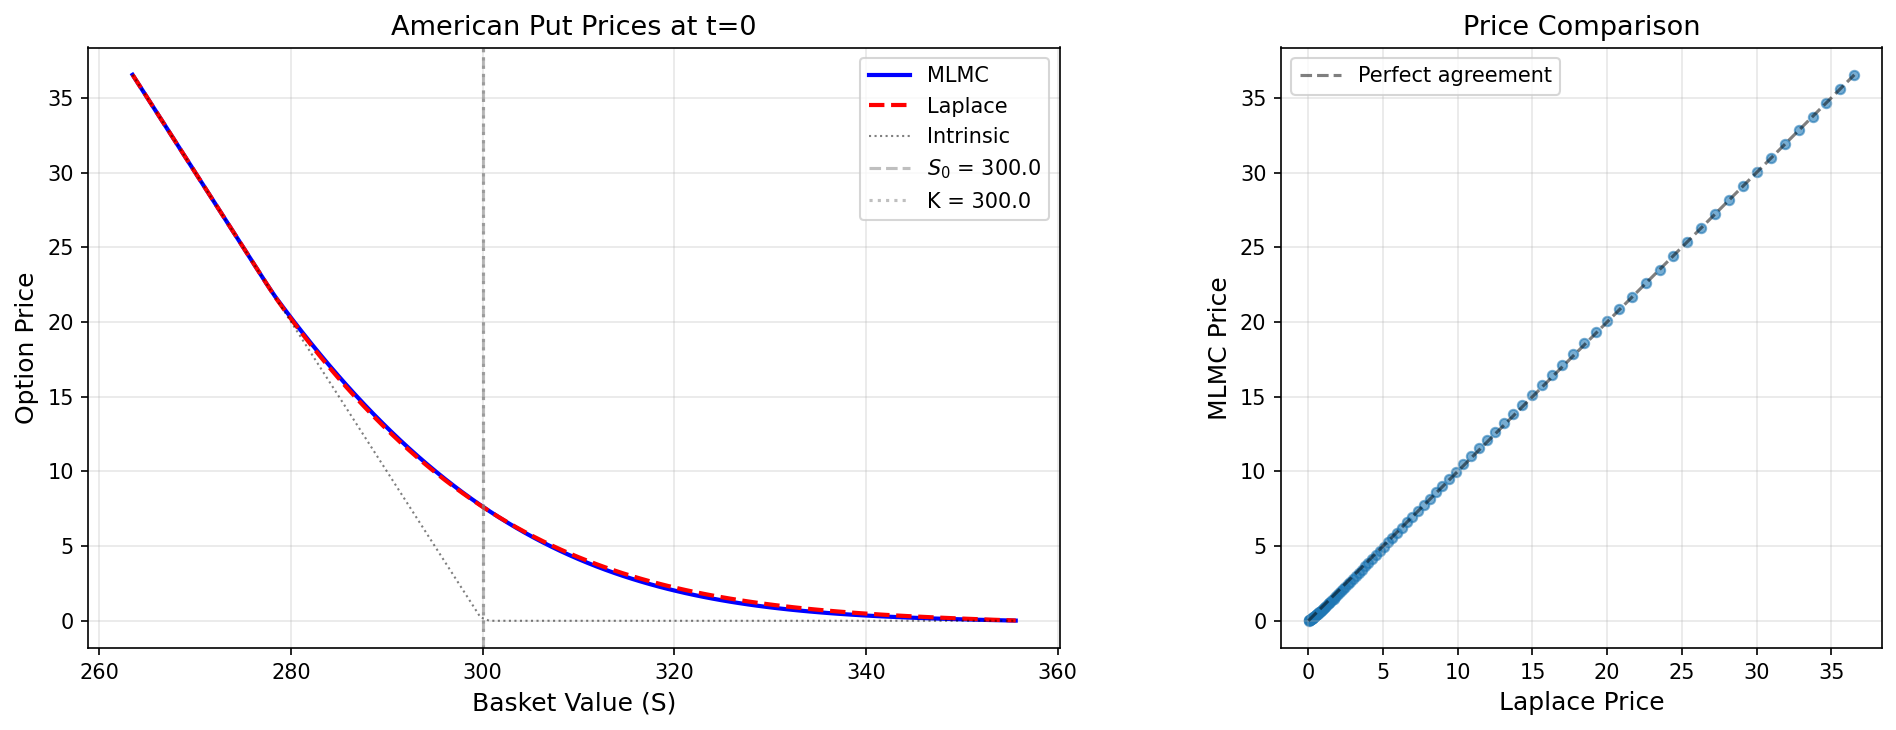
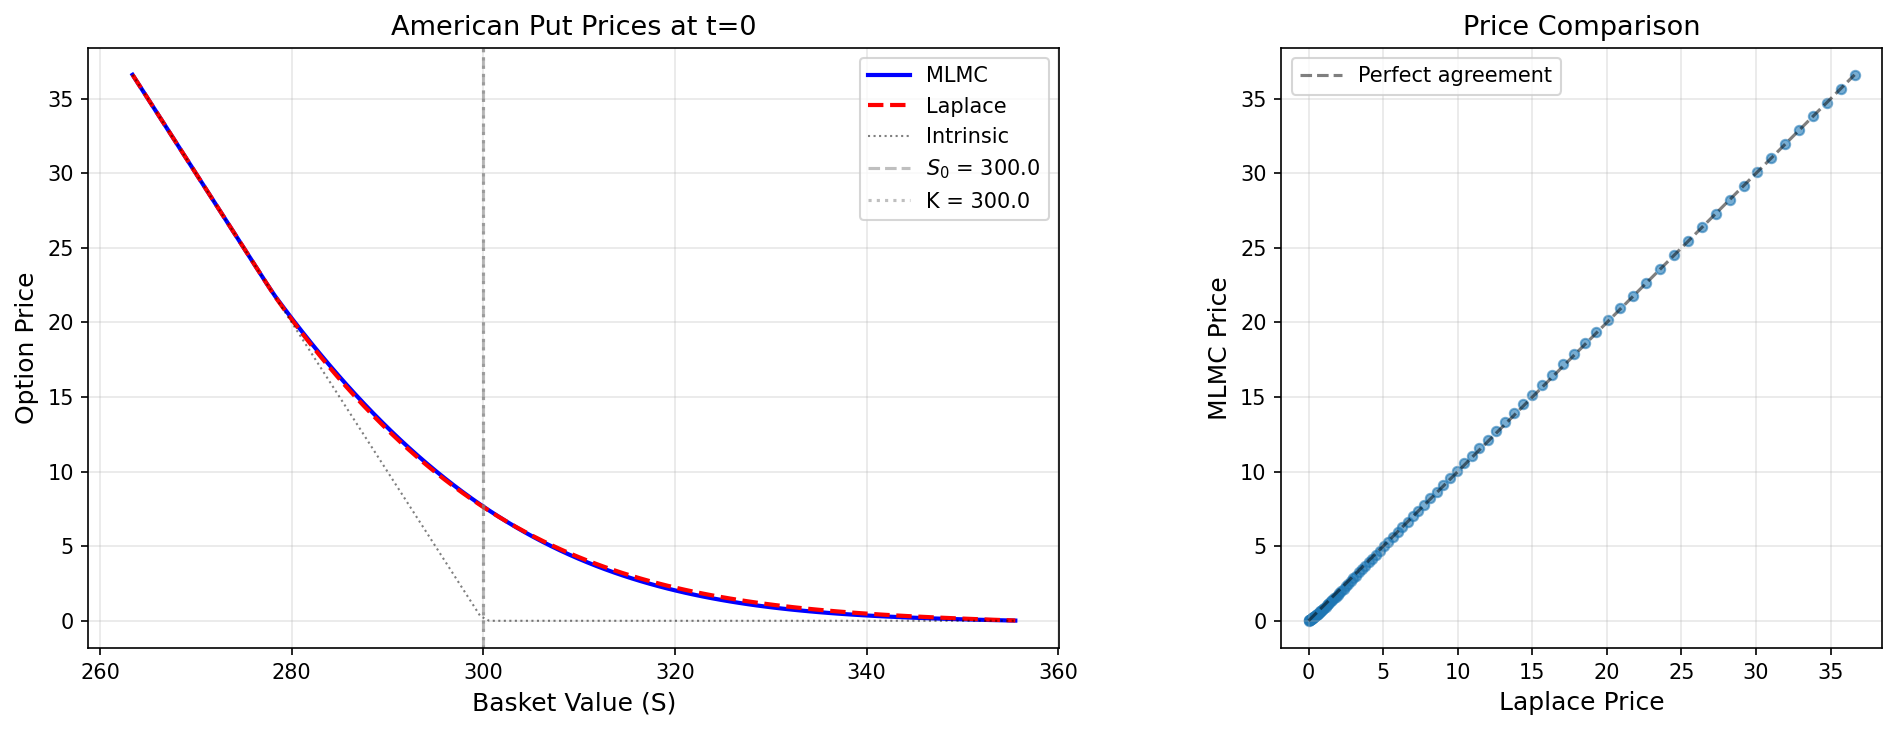
Updated plots

diff --git a/Comparison_Between_Methods/experiments/exp4_option_pricing.py b/Comparison_Between_Methods/experiments/exp4_option_pricing.py
@@ -384,20 +384,34 @@ def run_experiment(
         # 3. Time evolution of prices
         fig3, (ax3a, ax3b) = plt.subplots(1, 2, figsize=(14, 5))
         
-        # Select a few spot values
-        spot_indices = [
-            np.argmin(np.abs(S_pde_grid - params.S0 * 0.8)),
-            np.argmin(np.abs(S_pde_grid - params.S0)),
-            np.argmin(np.abs(S_pde_grid - params.K)),
-            np.argmin(np.abs(S_pde_grid - params.S0 * 1.2)),
-        ]
+        # Select spot values - avoid duplicates when S0 == K
+        spot_multipliers = [0.8, 0.9, 1.0, 1.2]  # ITM, slightly ITM, ATM, OTM
+        spot_indices = []
+        spot_values_used = set()
+        
+        for mult in spot_multipliers:
+            target_S = params.S0 * mult
+            idx = np.argmin(np.abs(S_pde_grid - target_S))
+            
+            # Only add if we haven't used this index yet
+            if idx not in spot_values_used:
+                spot_indices.append(idx)
+                spot_values_used.add(idx)
+        
+        # Create labels showing actual grid values (not target values)
         spot_labels = [f'S={S_pde_grid[i]:.0f}' for i in spot_indices]
-        colors = ['blue', 'green', 'orange', 'red']
+        colors = ['blue', 'green', 'orange', 'red'][:len(spot_indices)]
         
-        for idx, (si, label, col) in enumerate(zip(spot_indices, spot_labels, colors)):
-            ax3a.plot(t_pde_grid, V_mlmc[:, si], '-', color=col, linewidth=2, label=f'MLMC {label}')
-            ax3a.plot(t_pde_grid, V_laplace[:, si], '--', color=col, linewidth=1.5, alpha=0.7)
+        for si, label, col in zip(spot_indices, spot_labels, colors):
+            # Plot Laplace FIRST (underneath)
+            ax3a.plot(t_pde_grid, V_laplace[:, si], '--', color=col, linewidth=3, alpha=0.5)
+            # Plot MLMC on top (thinner, solid)
+            ax3a.plot(t_pde_grid, V_mlmc[:, si], '-', color=col, linewidth=1.5, label=f'{label}')
         
+        # Add legend entries for line styles
+        #ax3a.plot([], [], 'k-', linewidth=1.5, label='MLMC (solid)')
+        #ax3a.plot([], [], 'k--', linewidth=3, alpha=0.5, label='Laplace (dashed)')
+
         ax3a.set_xlabel('Time (t)', fontsize=12)
         ax3a.set_ylabel('Option Value', fontsize=12)
         ax3a.set_title('Option Value vs Time (solid=MLMC, dashed=Laplace)', fontsize=13)
@@ -405,7 +419,7 @@ def run_experiment(
         ax3a.grid(True, alpha=0.3)
         
         # Value differences over time
-        for idx, (si, label, col) in enumerate(zip(spot_indices, spot_labels, colors)):
+        for si, label, col in zip(spot_indices, spot_labels, colors):
             diff_t = V_mlmc[:, si] - V_laplace[:, si]
             ax3b.plot(t_pde_grid, diff_t, '-', color=col, linewidth=2, label=label)
         

diff --git a/Comparison_Between_Methods/results/tables/exp4_option_prices.md b/Comparison_Between_Methods/results/tables/exp4_option_prices.md
@@ -12,16 +12,16 @@
 
 | S | MLMC Price | Laplace Price | Difference | Diff (%) |
 |---|------------|---------------|------------|----------|
-| 263.5 | 36.5437 | 36.5437 | 0.0000 | 0.00 |
-| 263.5 | 36.5437 | 36.5437 | 0.0000 | 0.00 |
-| 270.0 | 30.0259 | 30.0259 | 0.0000 | 0.00 |
-| 299.8 | 7.7404 | 7.7202 | 0.0202 | 0.26 |
-| 329.6 | 0.9332 | 1.1279 | 0.1946 | 17.26 |
-| 355.6 | 0.0125 | 0.0196 | 0.0072 | 36.44 |
-| 355.6 | 0.0125 | 0.0196 | 0.0072 | 36.44 |
+| 263.4 | 36.6068 | 36.6068 | 0.0000 | 0.00 |
+| 263.4 | 36.6068 | 36.6068 | 0.0000 | 0.00 |
+| 269.9 | 30.0929 | 30.0929 | 0.0000 | 0.00 |
+| 299.7 | 7.7943 | 7.7564 | 0.0379 | 0.49 |
+| 330.4 | 0.8772 | 1.0593 | 0.1821 | 17.19 |
+| 355.5 | 0.0128 | 0.0198 | 0.0070 | 35.31 |
+| 355.5 | 0.0128 | 0.0198 | 0.0070 | 35.31 |
 
 ## Statistics
 
-- Mean absolute difference: 0.1012
-- Max absolute difference: 0.2081
-- Mean percentage difference: 10.42%
+- Mean absolute difference: 0.0987
+- Max absolute difference: 0.1963
+- Mean percentage difference: 9.97%
